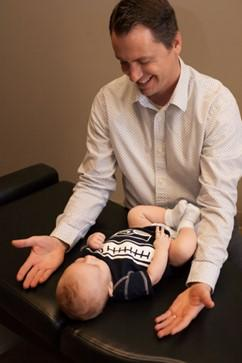
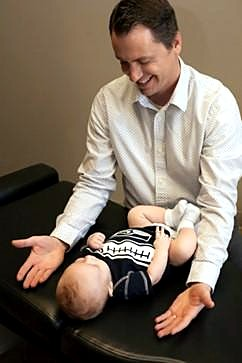
Normalize color balance on all people photos sitewide
Applied consistent color-balance/desaturation treatment (autocontrast, saturation 0.92, +5% contrast, +3% brightness, light unsharp mask) to every photo of people on the site: Dr. John Dobosz headshot, doctor-adjusting-baby gallery photo, and newly local copies of Dr. Darryl Coulombe, Miranda Dietrich, Amanda Little, Heather Blehm, Talia Raney, Kelcey Kyllonen, plus the Darin-adjusting-patient and Anik-seminar gallery photos. Updated all 6 palette HTML files to reference the new local image paths instead of remote myadvantagechiro.com URLs. Generic service-card stock photos and the two landscape event images were left untouched (no people, out of scope per client direction).

diff --git a/index-green.html b/index-green.html
@@ -728,7 +728,7 @@
         </div>
       </div>
       <div class="team-card reveal">
-        <div class="team-photo" style="background-image:url('https://myadvantagechiro.com/wp-content/uploads/2025/10/Dr.-Darryl.jpg');"></div>
+        <div class="team-photo" style="background-image:url('images/dr-darryl-coulombe.jpg');"></div>
         <div class="team-body">
           <h3>Dr. Darryl Coulombe, DC</h3>
           <span class="team-role">Chiropractor</span>
@@ -739,11 +739,11 @@
     </div>
 
     <div class="team-staff reveal">
-      <div class="staff-chip"><div class="init" style="background-image:url('https://myadvantagechiro.com/wp-content/uploads/2025/10/Mirranda.jpg');"></div><b>Miranda Dietrich</b><span>Office Manager</span></div>
-      <div class="staff-chip"><div class="init" style="background-image:url('https://myadvantagechiro.com/wp-content/uploads/2023/10/Chiropractic-Longview-WA-Amanda-L.-About-circle-959c0816e0fd68b1034fb8ccfad7138b-74ed35ymfhx2.webp');"></div><b>Amanda Little</b><span>Billing Specialist</span></div>
-      <div class="staff-chip"><div class="init" style="background-image:url('https://myadvantagechiro.com/wp-content/uploads/2025/10/Heather.jpg');"></div><b>Heather Blehm</b><span>Lead Front Desk</span></div>
-      <div class="staff-chip"><div class="init" style="background-image:url('https://myadvantagechiro.com/wp-content/uploads/2025/10/Talia.jpg');"></div><b>Talia Raney</b><span>Front Desk</span></div>
-      <div class="staff-chip"><div class="init" style="background-image:url('https://myadvantagechiro.com/wp-content/uploads/2025/10/Kelcey.jpg');"></div><b>Kelcey Kyllonen</b><span>Front Desk / X-Ray Tech</span></div>
+      <div class="staff-chip"><div class="init" style="background-image:url('images/miranda-dietrich.jpg');"></div><b>Miranda Dietrich</b><span>Office Manager</span></div>
+      <div class="staff-chip"><div class="init" style="background-image:url('images/amanda-little.jpg');"></div><b>Amanda Little</b><span>Billing Specialist</span></div>
+      <div class="staff-chip"><div class="init" style="background-image:url('images/heather-blehm.jpg');"></div><b>Heather Blehm</b><span>Lead Front Desk</span></div>
+      <div class="staff-chip"><div class="init" style="background-image:url('images/talia-raney.jpg');"></div><b>Talia Raney</b><span>Front Desk</span></div>
+      <div class="staff-chip"><div class="init" style="background-image:url('images/kelcey-kyllonen.jpg');"></div><b>Kelcey Kyllonen</b><span>Front Desk / X-Ray Tech</span></div>
       <div class="staff-chip"><div class="init" style="background-image:url('images/nyah-hartley.jpg');"></div><b>Nyah Hartley</b><span>Front Desk</span></div>
     </div>
   </div>
@@ -918,10 +918,10 @@
 
     <div class="gallery-strip reveal">
       <img src="images/doctor-adjusting-baby.jpg" alt="One of our doctors giving a gentle pediatric adjustment" loading="lazy">
-      <img src="https://myadvantagechiro.com/wp-content/uploads/photo-gallery/imported_from_media_libray/thumb/Chiropractor-Longview-WA-Darin-Shook-Adjusting-A-Patient-1.webp?bwg=1697810083" alt="Dr. Darin adjusting a patient" loading="lazy">
+      <img src="images/darin-adjusting-patient.jpg" alt="Dr. Darin adjusting a patient" loading="lazy">
       <img src="https://myadvantagechiro.com/wp-content/uploads/photo-gallery/imported_from_media_libray/thumb/Chiropractic-Longview-WA-Adjustment-Tables.webp?bwg=1697810083" alt="Adjustment tables" loading="lazy">
       <img src="https://myadvantagechiro.com/wp-content/uploads/photo-gallery/imported_from_media_libray/thumb/Chiropractic-Longview-WA-Wall-Decor.webp?bwg=1697810083" alt="Office wall decor" loading="lazy">
-      <img src="https://myadvantagechiro.com/wp-content/uploads/photo-gallery/imported_from_media_libray/thumb/Chiropractor-Longview-WA-Anik-St.-Martin-Giving-A-Seminar.webp?bwg=1697810083" alt="Dr. Anik giving a community seminar" loading="lazy">
+      <img src="images/anik-seminar.jpg" alt="Dr. Anik giving a community seminar" loading="lazy">
     </div>
   </div>
 </section>

diff --git a/index-sage-light.html b/index-sage-light.html
@@ -728,7 +728,7 @@
         </div>
       </div>
       <div class="team-card reveal">
-        <div class="team-photo" style="background-image:url('https://myadvantagechiro.com/wp-content/uploads/2025/10/Dr.-Darryl.jpg');"></div>
+        <div class="team-photo" style="background-image:url('images/dr-darryl-coulombe.jpg');"></div>
         <div class="team-body">
           <h3>Dr. Darryl Coulombe, DC</h3>
           <span class="team-role">Chiropractor</span>
@@ -739,11 +739,11 @@
     </div>
 
     <div class="team-staff reveal">
-      <div class="staff-chip"><div class="init" style="background-image:url('https://myadvantagechiro.com/wp-content/uploads/2025/10/Mirranda.jpg');"></div><b>Miranda Dietrich</b><span>Office Manager</span></div>
-      <div class="staff-chip"><div class="init" style="background-image:url('https://myadvantagechiro.com/wp-content/uploads/2023/10/Chiropractic-Longview-WA-Amanda-L.-About-circle-959c0816e0fd68b1034fb8ccfad7138b-74ed35ymfhx2.webp');"></div><b>Amanda Little</b><span>Billing Specialist</span></div>
-      <div class="staff-chip"><div class="init" style="background-image:url('https://myadvantagechiro.com/wp-content/uploads/2025/10/Heather.jpg');"></div><b>Heather Blehm</b><span>Lead Front Desk</span></div>
-      <div class="staff-chip"><div class="init" style="background-image:url('https://myadvantagechiro.com/wp-content/uploads/2025/10/Talia.jpg');"></div><b>Talia Raney</b><span>Front Desk</span></div>
-      <div class="staff-chip"><div class="init" style="background-image:url('https://myadvantagechiro.com/wp-content/uploads/2025/10/Kelcey.jpg');"></div><b>Kelcey Kyllonen</b><span>Front Desk / X-Ray Tech</span></div>
+      <div class="staff-chip"><div class="init" style="background-image:url('images/miranda-dietrich.jpg');"></div><b>Miranda Dietrich</b><span>Office Manager</span></div>
+      <div class="staff-chip"><div class="init" style="background-image:url('images/amanda-little.jpg');"></div><b>Amanda Little</b><span>Billing Specialist</span></div>
+      <div class="staff-chip"><div class="init" style="background-image:url('images/heather-blehm.jpg');"></div><b>Heather Blehm</b><span>Lead Front Desk</span></div>
+      <div class="staff-chip"><div class="init" style="background-image:url('images/talia-raney.jpg');"></div><b>Talia Raney</b><span>Front Desk</span></div>
+      <div class="staff-chip"><div class="init" style="background-image:url('images/kelcey-kyllonen.jpg');"></div><b>Kelcey Kyllonen</b><span>Front Desk / X-Ray Tech</span></div>
       <div class="staff-chip"><div class="init" style="background-image:url('images/nyah-hartley.jpg');"></div><b>Nyah Hartley</b><span>Front Desk</span></div>
     </div>
   </div>
@@ -918,10 +918,10 @@
 
     <div class="gallery-strip reveal">
       <img src="images/doctor-adjusting-baby.jpg" alt="One of our doctors giving a gentle pediatric adjustment" loading="lazy">
-      <img src="https://myadvantagechiro.com/wp-content/uploads/photo-gallery/imported_from_media_libray/thumb/Chiropractor-Longview-WA-Darin-Shook-Adjusting-A-Patient-1.webp?bwg=1697810083" alt="Dr. Darin adjusting a patient" loading="lazy">
+      <img src="images/darin-adjusting-patient.jpg" alt="Dr. Darin adjusting a patient" loading="lazy">
       <img src="https://myadvantagechiro.com/wp-content/uploads/photo-gallery/imported_from_media_libray/thumb/Chiropractic-Longview-WA-Adjustment-Tables.webp?bwg=1697810083" alt="Adjustment tables" loading="lazy">
       <img src="https://myadvantagechiro.com/wp-content/uploads/photo-gallery/imported_from_media_libray/thumb/Chiropractic-Longview-WA-Wall-Decor.webp?bwg=1697810083" alt="Office wall decor" loading="lazy">
-      <img src="https://myadvantagechiro.com/wp-content/uploads/photo-gallery/imported_from_media_libray/thumb/Chiropractor-Longview-WA-Anik-St.-Martin-Giving-A-Seminar.webp?bwg=1697810083" alt="Dr. Anik giving a community seminar" loading="lazy">
+      <img src="images/anik-seminar.jpg" alt="Dr. Anik giving a community seminar" loading="lazy">
     </div>
   </div>
 </section>

diff --git a/index-sage.html b/index-sage.html
@@ -728,7 +728,7 @@
         </div>
       </div>
       <div class="team-card reveal">
-        <div class="team-photo" style="background-image:url('https://myadvantagechiro.com/wp-content/uploads/2025/10/Dr.-Darryl.jpg');"></div>
+        <div class="team-photo" style="background-image:url('images/dr-darryl-coulombe.jpg');"></div>
         <div class="team-body">
           <h3>Dr. Darryl Coulombe, DC</h3>
           <span class="team-role">Chiropractor</span>
@@ -739,11 +739,11 @@
     </div>
 
     <div class="team-staff reveal">
-      <div class="staff-chip"><div class="init" style="background-image:url('https://myadvantagechiro.com/wp-content/uploads/2025/10/Mirranda.jpg');"></div><b>Miranda Dietrich</b><span>Office Manager</span></div>
-      <div class="staff-chip"><div class="init" style="background-image:url('https://myadvantagechiro.com/wp-content/uploads/2023/10/Chiropractic-Longview-WA-Amanda-L.-About-circle-959c0816e0fd68b1034fb8ccfad7138b-74ed35ymfhx2.webp');"></div><b>Amanda Little</b><span>Billing Specialist</span></div>
-      <div class="staff-chip"><div class="init" style="background-image:url('https://myadvantagechiro.com/wp-content/uploads/2025/10/Heather.jpg');"></div><b>Heather Blehm</b><span>Lead Front Desk</span></div>
-      <div class="staff-chip"><div class="init" style="background-image:url('https://myadvantagechiro.com/wp-content/uploads/2025/10/Talia.jpg');"></div><b>Talia Raney</b><span>Front Desk</span></div>
-      <div class="staff-chip"><div class="init" style="background-image:url('https://myadvantagechiro.com/wp-content/uploads/2025/10/Kelcey.jpg');"></div><b>Kelcey Kyllonen</b><span>Front Desk / X-Ray Tech</span></div>
+      <div class="staff-chip"><div class="init" style="background-image:url('images/miranda-dietrich.jpg');"></div><b>Miranda Dietrich</b><span>Office Manager</span></div>
+      <div class="staff-chip"><div class="init" style="background-image:url('images/amanda-little.jpg');"></div><b>Amanda Little</b><span>Billing Specialist</span></div>
+      <div class="staff-chip"><div class="init" style="background-image:url('images/heather-blehm.jpg');"></div><b>Heather Blehm</b><span>Lead Front Desk</span></div>
+      <div class="staff-chip"><div class="init" style="background-image:url('images/talia-raney.jpg');"></div><b>Talia Raney</b><span>Front Desk</span></div>
+      <div class="staff-chip"><div class="init" style="background-image:url('images/kelcey-kyllonen.jpg');"></div><b>Kelcey Kyllonen</b><span>Front Desk / X-Ray Tech</span></div>
       <div class="staff-chip"><div class="init" style="background-image:url('images/nyah-hartley.jpg');"></div><b>Nyah Hartley</b><span>Front Desk</span></div>
     </div>
   </div>
@@ -918,10 +918,10 @@
 
     <div class="gallery-strip reveal">
       <img src="images/doctor-adjusting-baby.jpg" alt="One of our doctors giving a gentle pediatric adjustment" loading="lazy">
-      <img src="https://myadvantagechiro.com/wp-content/uploads/photo-gallery/imported_from_media_libray/thumb/Chiropractor-Longview-WA-Darin-Shook-Adjusting-A-Patient-1.webp?bwg=1697810083" alt="Dr. Darin adjusting a patient" loading="lazy">
+      <img src="images/darin-adjusting-patient.jpg" alt="Dr. Darin adjusting a patient" loading="lazy">
       <img src="https://myadvantagechiro.com/wp-content/uploads/photo-gallery/imported_from_media_libray/thumb/Chiropractic-Longview-WA-Adjustment-Tables.webp?bwg=1697810083" alt="Adjustment tables" loading="lazy">
       <img src="https://myadvantagechiro.com/wp-content/uploads/photo-gallery/imported_from_media_libray/thumb/Chiropractic-Longview-WA-Wall-Decor.webp?bwg=1697810083" alt="Office wall decor" loading="lazy">
-      <img src="https://myadvantagechiro.com/wp-content/uploads/photo-gallery/imported_from_media_libray/thumb/Chiropractor-Longview-WA-Anik-St.-Martin-Giving-A-Seminar.webp?bwg=1697810083" alt="Dr. Anik giving a community seminar" loading="lazy">
+      <img src="images/anik-seminar.jpg" alt="Dr. Anik giving a community seminar" loading="lazy">
     </div>
   </div>
 </section>

diff --git a/index-soft.html b/index-soft.html
@@ -728,7 +728,7 @@
         </div>
       </div>
       <div class="team-card reveal">
-        <div class="team-photo" style="background-image:url('https://myadvantagechiro.com/wp-content/uploads/2025/10/Dr.-Darryl.jpg');"></div>
+        <div class="team-photo" style="background-image:url('images/dr-darryl-coulombe.jpg');"></div>
         <div class="team-body">
           <h3>Dr. Darryl Coulombe, DC</h3>
           <span class="team-role">Chiropractor</span>
@@ -739,11 +739,11 @@
     </div>
 
     <div class="team-staff reveal">
-      <div class="staff-chip"><div class="init" style="background-image:url('https://myadvantagechiro.com/wp-content/uploads/2025/10/Mirranda.jpg');"></div><b>Miranda Dietrich</b><span>Office Manager</span></div>
-      <div class="staff-chip"><div class="init" style="background-image:url('https://myadvantagechiro.com/wp-content/uploads/2023/10/Chiropractic-Longview-WA-Amanda-L.-About-circle-959c0816e0fd68b1034fb8ccfad7138b-74ed35ymfhx2.webp');"></div><b>Amanda Little</b><span>Billing Specialist</span></div>
-      <div class="staff-chip"><div class="init" style="background-image:url('https://myadvantagechiro.com/wp-content/uploads/2025/10/Heather.jpg');"></div><b>Heather Blehm</b><span>Lead Front Desk</span></div>
-      <div class="staff-chip"><div class="init" style="background-image:url('https://myadvantagechiro.com/wp-content/uploads/2025/10/Talia.jpg');"></div><b>Talia Raney</b><span>Front Desk</span></div>
-      <div class="staff-chip"><div class="init" style="background-image:url('https://myadvantagechiro.com/wp-content/uploads/2025/10/Kelcey.jpg');"></div><b>Kelcey Kyllonen</b><span>Front Desk / X-Ray Tech</span></div>
+      <div class="staff-chip"><div class="init" style="background-image:url('images/miranda-dietrich.jpg');"></div><b>Miranda Dietrich</b><span>Office Manager</span></div>
+      <div class="staff-chip"><div class="init" style="background-image:url('images/amanda-little.jpg');"></div><b>Amanda Little</b><span>Billing Specialist</span></div>
+      <div class="staff-chip"><div class="init" style="background-image:url('images/heather-blehm.jpg');"></div><b>Heather Blehm</b><span>Lead Front Desk</span></div>
+      <div class="staff-chip"><div class="init" style="background-image:url('images/talia-raney.jpg');"></div><b>Talia Raney</b><span>Front Desk</span></div>
+      <div class="staff-chip"><div class="init" style="background-image:url('images/kelcey-kyllonen.jpg');"></div><b>Kelcey Kyllonen</b><span>Front Desk / X-Ray Tech</span></div>
       <div class="staff-chip"><div class="init" style="background-image:url('images/nyah-hartley.jpg');"></div><b>Nyah Hartley</b><span>Front Desk</span></div>
     </div>
   </div>
@@ -918,10 +918,10 @@
 
     <div class="gallery-strip reveal">
       <img src="images/doctor-adjusting-baby.jpg" alt="One of our doctors giving a gentle pediatric adjustment" loading="lazy">
-      <img src="https://myadvantagechiro.com/wp-content/uploads/photo-gallery/imported_from_media_libray/thumb/Chiropractor-Longview-WA-Darin-Shook-Adjusting-A-Patient-1.webp?bwg=1697810083" alt="Dr. Darin adjusting a patient" loading="lazy">
+      <img src="images/darin-adjusting-patient.jpg" alt="Dr. Darin adjusting a patient" loading="lazy">
       <img src="https://myadvantagechiro.com/wp-content/uploads/photo-gallery/imported_from_media_libray/thumb/Chiropractic-Longview-WA-Adjustment-Tables.webp?bwg=1697810083" alt="Adjustment tables" loading="lazy">
       <img src="https://myadvantagechiro.com/wp-content/uploads/photo-gallery/imported_from_media_libray/thumb/Chiropractic-Longview-WA-Wall-Decor.webp?bwg=1697810083" alt="Office wall decor" loading="lazy">
-      <img src="https://myadvantagechiro.com/wp-content/uploads/photo-gallery/imported_from_media_libray/thumb/Chiropractor-Longview-WA-Anik-St.-Martin-Giving-A-Seminar.webp?bwg=1697810083" alt="Dr. Anik giving a community seminar" loading="lazy">
+      <img src="images/anik-seminar.jpg" alt="Dr. Anik giving a community seminar" loading="lazy">
     </div>
   </div>
 </section>

diff --git a/index-taupe.html b/index-taupe.html
@@ -728,7 +728,7 @@
         </div>
       </div>
       <div class="team-card reveal">
-        <div class="team-photo" style="background-image:url('https://myadvantagechiro.com/wp-content/uploads/2025/10/Dr.-Darryl.jpg');"></div>
+        <div class="team-photo" style="background-image:url('images/dr-darryl-coulombe.jpg');"></div>
         <div class="team-body">
           <h3>Dr. Darryl Coulombe, DC</h3>
           <span class="team-role">Chiropractor</span>
@@ -739,11 +739,11 @@
     </div>
 
     <div class="team-staff reveal">
-      <div class="staff-chip"><div class="init" style="background-image:url('https://myadvantagechiro.com/wp-content/uploads/2025/10/Mirranda.jpg');"></div><b>Miranda Dietrich</b><span>Office Manager</span></div>
-      <div class="staff-chip"><div class="init" style="background-image:url('https://myadvantagechiro.com/wp-content/uploads/2023/10/Chiropractic-Longview-WA-Amanda-L.-About-circle-959c0816e0fd68b1034fb8ccfad7138b-74ed35ymfhx2.webp');"></div><b>Amanda Little</b><span>Billing Specialist</span></div>
-      <div class="staff-chip"><div class="init" style="background-image:url('https://myadvantagechiro.com/wp-content/uploads/2025/10/Heather.jpg');"></div><b>Heather Blehm</b><span>Lead Front Desk</span></div>
-      <div class="staff-chip"><div class="init" style="background-image:url('https://myadvantagechiro.com/wp-content/uploads/2025/10/Talia.jpg');"></div><b>Talia Raney</b><span>Front Desk</span></div>
-      <div class="staff-chip"><div class="init" style="background-image:url('https://myadvantagechiro.com/wp-content/uploads/2025/10/Kelcey.jpg');"></div><b>Kelcey Kyllonen</b><span>Front Desk / X-Ray Tech</span></div>
+      <div class="staff-chip"><div class="init" style="background-image:url('images/miranda-dietrich.jpg');"></div><b>Miranda Dietrich</b><span>Office Manager</span></div>
+      <div class="staff-chip"><div class="init" style="background-image:url('images/amanda-little.jpg');"></div><b>Amanda Little</b><span>Billing Specialist</span></div>
+      <div class="staff-chip"><div class="init" style="background-image:url('images/heather-blehm.jpg');"></div><b>Heather Blehm</b><span>Lead Front Desk</span></div>
+      <div class="staff-chip"><div class="init" style="background-image:url('images/talia-raney.jpg');"></div><b>Talia Raney</b><span>Front Desk</span></div>
+      <div class="staff-chip"><div class="init" style="background-image:url('images/kelcey-kyllonen.jpg');"></div><b>Kelcey Kyllonen</b><span>Front Desk / X-Ray Tech</span></div>
       <div class="staff-chip"><div class="init" style="background-image:url('images/nyah-hartley.jpg');"></div><b>Nyah Hartley</b><span>Front Desk</span></div>
     </div>
   </div>
@@ -918,10 +918,10 @@
 
     <div class="gallery-strip reveal">
       <img src="images/doctor-adjusting-baby.jpg" alt="One of our doctors giving a gentle pediatric adjustment" loading="lazy">
-      <img src="https://myadvantagechiro.com/wp-content/uploads/photo-gallery/imported_from_media_libray/thumb/Chiropractor-Longview-WA-Darin-Shook-Adjusting-A-Patient-1.webp?bwg=1697810083" alt="Dr. Darin adjusting a patient" loading="lazy">
+      <img src="images/darin-adjusting-patient.jpg" alt="Dr. Darin adjusting a patient" loading="lazy">
       <img src="https://myadvantagechiro.com/wp-content/uploads/photo-gallery/imported_from_media_libray/thumb/Chiropractic-Longview-WA-Adjustment-Tables.webp?bwg=1697810083" alt="Adjustment tables" loading="lazy">
       <img src="https://myadvantagechiro.com/wp-content/uploads/photo-gallery/imported_from_media_libray/thumb/Chiropractic-Longview-WA-Wall-Decor.webp?bwg=1697810083" alt="Office wall decor" loading="lazy">
-      <img src="https://myadvantagechiro.com/wp-content/uploads/photo-gallery/imported_from_media_libray/thumb/Chiropractor-Longview-WA-Anik-St.-Martin-Giving-A-Seminar.webp?bwg=1697810083" alt="Dr. Anik giving a community seminar" loading="lazy">
+      <img src="images/anik-seminar.jpg" alt="Dr. Anik giving a community seminar" loading="lazy">
     </div>
   </div>
 </section>

diff --git a/index.html b/index.html
@@ -728,7 +728,7 @@
         </div>
       </div>
       <div class="team-card reveal">
-        <div class="team-photo" style="background-image:url('https://myadvantagechiro.com/wp-content/uploads/2025/10/Dr.-Darryl.jpg');"></div>
+        <div class="team-photo" style="background-image:url('images/dr-darryl-coulombe.jpg');"></div>
         <div class="team-body">
           <h3>Dr. Darryl Coulombe, DC</h3>
           <span class="team-role">Chiropractor</span>
@@ -739,11 +739,11 @@
     </div>
 
     <div class="team-staff reveal">
-      <div class="staff-chip"><div class="init" style="background-image:url('https://myadvantagechiro.com/wp-content/uploads/2025/10/Mirranda.jpg');"></div><b>Miranda Dietrich</b><span>Office Manager</span></div>
-      <div class="staff-chip"><div class="init" style="background-image:url('https://myadvantagechiro.com/wp-content/uploads/2023/10/Chiropractic-Longview-WA-Amanda-L.-About-circle-959c0816e0fd68b1034fb8ccfad7138b-74ed35ymfhx2.webp');"></div><b>Amanda Little</b><span>Billing Specialist</span></div>
-      <div class="staff-chip"><div class="init" style="background-image:url('https://myadvantagechiro.com/wp-content/uploads/2025/10/Heather.jpg');"></div><b>Heather Blehm</b><span>Lead Front Desk</span></div>
-      <div class="staff-chip"><div class="init" style="background-image:url('https://myadvantagechiro.com/wp-content/uploads/2025/10/Talia.jpg');"></div><b>Talia Raney</b><span>Front Desk</span></div>
-      <div class="staff-chip"><div class="init" style="background-image:url('https://myadvantagechiro.com/wp-content/uploads/2025/10/Kelcey.jpg');"></div><b>Kelcey Kyllonen</b><span>Front Desk / X-Ray Tech</span></div>
+      <div class="staff-chip"><div class="init" style="background-image:url('images/miranda-dietrich.jpg');"></div><b>Miranda Dietrich</b><span>Office Manager</span></div>
+      <div class="staff-chip"><div class="init" style="background-image:url('images/amanda-little.jpg');"></div><b>Amanda Little</b><span>Billing Specialist</span></div>
+      <div class="staff-chip"><div class="init" style="background-image:url('images/heather-blehm.jpg');"></div><b>Heather Blehm</b><span>Lead Front Desk</span></div>
+      <div class="staff-chip"><div class="init" style="background-image:url('images/talia-raney.jpg');"></div><b>Talia Raney</b><span>Front Desk</span></div>
+      <div class="staff-chip"><div class="init" style="background-image:url('images/kelcey-kyllonen.jpg');"></div><b>Kelcey Kyllonen</b><span>Front Desk / X-Ray Tech</span></div>
       <div class="staff-chip"><div class="init" style="background-image:url('images/nyah-hartley.jpg');"></div><b>Nyah Hartley</b><span>Front Desk</span></div>
     </div>
   </div>
@@ -918,10 +918,10 @@
 
     <div class="gallery-strip reveal">
       <img src="images/doctor-adjusting-baby.jpg" alt="One of our doctors giving a gentle pediatric adjustment" loading="lazy">
-      <img src="https://myadvantagechiro.com/wp-content/uploads/photo-gallery/imported_from_media_libray/thumb/Chiropractor-Longview-WA-Darin-Shook-Adjusting-A-Patient-1.webp?bwg=1697810083" alt="Dr. Darin adjusting a patient" loading="lazy">
+      <img src="images/darin-adjusting-patient.jpg" alt="Dr. Darin adjusting a patient" loading="lazy">
       <img src="https://myadvantagechiro.com/wp-content/uploads/photo-gallery/imported_from_media_libray/thumb/Chiropractic-Longview-WA-Adjustment-Tables.webp?bwg=1697810083" alt="Adjustment tables" loading="lazy">
       <img src="https://myadvantagechiro.com/wp-content/uploads/photo-gallery/imported_from_media_libray/thumb/Chiropractic-Longview-WA-Wall-Decor.webp?bwg=1697810083" alt="Office wall decor" loading="lazy">
-      <img src="https://myadvantagechiro.com/wp-content/uploads/photo-gallery/imported_from_media_libray/thumb/Chiropractor-Longview-WA-Anik-St.-Martin-Giving-A-Seminar.webp?bwg=1697810083" alt="Dr. Anik giving a community seminar" loading="lazy">
+      <img src="images/anik-seminar.jpg" alt="Dr. Anik giving a community seminar" loading="lazy">
     </div>
   </div>
 </section>
